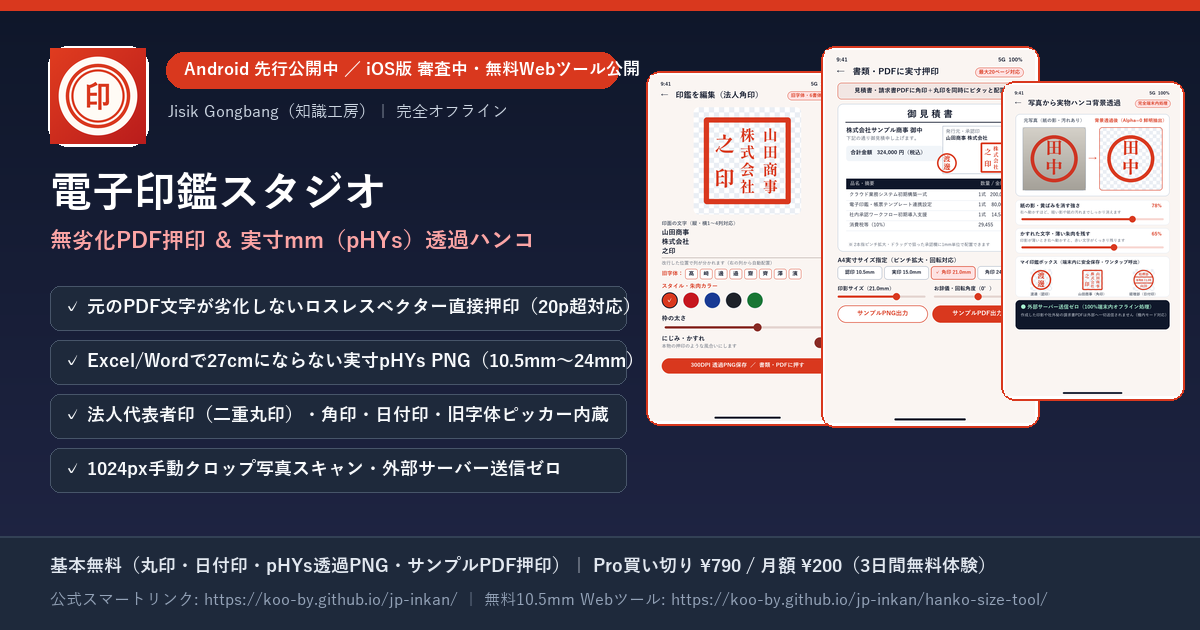
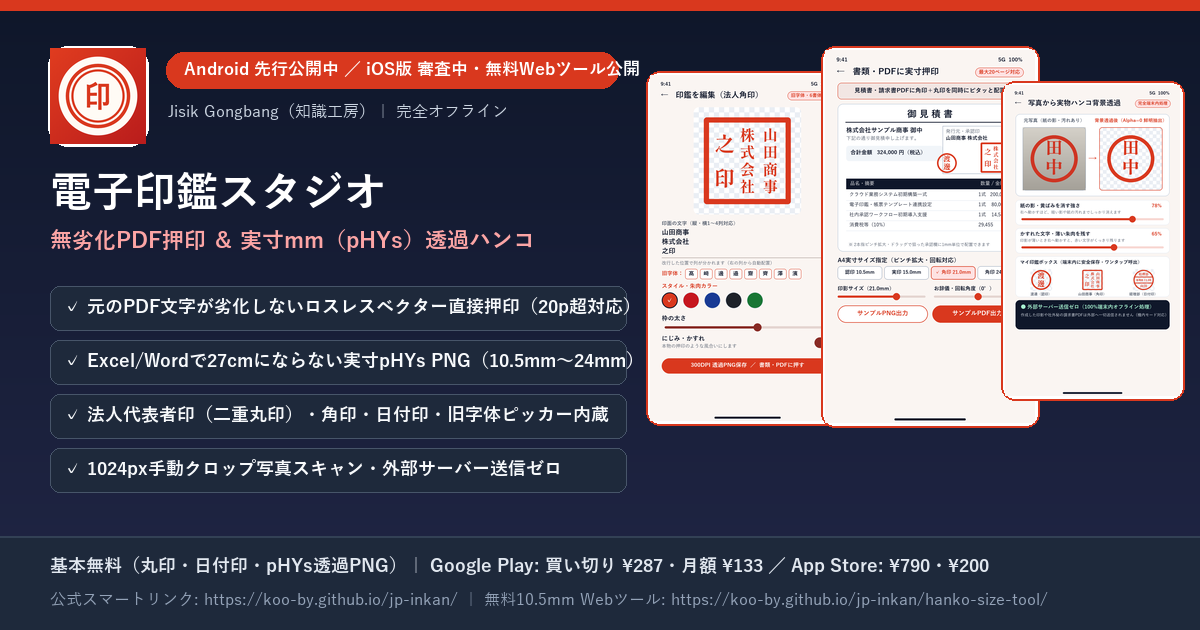
chore(jp-inkan): update Google Play pricing to ¥287 lifetime / ¥133 monthly alongside App Store ¥790 / ¥200
# Conflicts:
#	terms.html

Changed region(s): [[0.3392, 0.8746, 0.8325, 0.9349]]

diff --git a/terms.html b/terms.html
@@ -180,13 +180,13 @@
 
         <h2>第3条（有料プラン・無料トライアル・自動更新および解約条件）</h2>
         <ol>
-          <li>本アプリでは、無料機能に加え、すべての制限を解放する有料プランとして<strong>「買い切りプラン（永久Proライセンス）」</strong>および<strong>「月額プラン（定期購読サブスクリプション）」</strong>を提供しています。各プランの具体的な料金（消費税込み）はアプリ内の購入画面に表示されます（代表価格例：買い切りプラン ¥790、月額プラン ¥200/月）。</li>
+          <li>本アプリでは、無料機能に加え、すべての制限を解放する有料プランとして<strong>「買い切りプラン（永久Proライセンス）」</strong>および<strong>「月額プラン（定期購読サブスクリプション）」</strong>を提供しています。各プランの具体的な料金（消費税込み）はアプリ内の購入画面に表示されます（代表価格例：Google Play 買い切り ¥287・月額 ¥133/月 ／ App Store 買い切り ¥790・月額 ¥200/月）。</li>
           <li>決済はApple Inc.（App Store）またはGoogle LLC（Google Play）の公式アプリ内課金システムを通じて行われます。</li>
           <li><strong>買い切りプラン（Lifetime Pro）：</strong> 1回のお支払いにより、追加課金や自動更新なしで対象アプリのPro機能を永続的にご利用いただけます。</li>
           <li><strong>月額プラン（Monthly Pro）および無料トライアル（24時間前ルール）：</strong> 初回登録時に3日間の無料トライアルが提供される場合、トライアル期間終了の<strong>24時間前まで</strong>に解約手続きを完了しない限り、自動的に有料の月額プランへ移行し初回の月額料金が課金されます。以後も現在の購読期間が終了する<strong>24時間前まで</strong>に解約しない限り、同一条件で毎月自動更新されます。</li>
           <li><strong>定期購読の解約方法および終了24時間以内の解約について：</strong> 解約（自動更新の停止）手続き自体は、期間終了の24時間前を過ぎていても（例：終了20時間前など）、ユーザーの端末設定（iOS：「設定」＞「Apple Account」＞「サブスクリプション」、Android：「Google Play ストア」＞「お支払いと定期購入」＞「定期購入」）からいつでも行うことができます。ただし、期間終了まで24時間を切った時点で解約された場合は、Apple / Google決済システムの事前承認処理により今回分（1ヶ月分）のみ課金・更新され、翌月以降の自動更新が停止する場合があります。なお、<strong>本アプリを端末からアンインストール（削除）しただけでは定期購読は自動的に解約されません</strong>のでご注意ください。</li>
           <li><strong>解約後の保存データの保護および出力範囲：</strong> Pro利用中に「マイ印鑑ボックス」へ保存された印鑑データは、月額プラン解約後も削除されることなく端末内に永続的に保持されます。解約後の出力・保存には無料プランの範囲（個人丸印・小判印・日付印の鮮明モード出力および内蔵サンプル書類への押印出力）が適用され、Pro専用印鑑（法人角印・写真スキャン透過印影）、朱肉かすれ・二重枠加工、複数同時押印、およびお手持ちの外部PDF・写真書類への押印出力は、再購読または買い切りプランのご購入によりいつでも再度ご利用いただけます。</li>
-          <li><strong>月額プラン（無料トライアル中を含む）から買い切りプランへ移行する場合の注意事項：</strong> Apple（App Store）およびGoogle（Google Play）のOS決済仕様上、月額サブスクリプション利用中（3日間無料トライアル期間中を含む）に買い切りプラン（非消耗型アイテム・¥790）を購入しても、既存の月額サブスクリプションは自動的には解約されません。次回以降の月額料金の重複課金を防止するため、買い切りプラン購入後は必ずユーザーご自身で端末のストア設定画面から、更新日の<strong>24時間前まで</strong>に既存の月額プランの解約手続きを行ってください。</li>
+          <li><strong>月額プラン（無料トライアル中を含む）から買い切りプランへ移行する場合の注意事項：</strong> Apple（App Store）およびGoogle（Google Play）のOS決済仕様上、月額サブスクリプション利用中（3日間無料トライアル期間中を含む）に買い切りプラン（非消耗型アイテム：Google Play ¥287 ／ App Store ¥790）を購入しても、既存の月額サブスクリプションは自動的には解約されません。次回以降の月額料金の重複課金を防止するため、買い切りプラン購入後は必ずユーザーご自身で端末のストア設定画面から、更新日の<strong>24時間前まで</strong>に既存の月額プランの解約手続きを行ってください。</li>
         </ol>
 
         <h2>第4条（禁止事項）</h2>
@@ -202,7 +202,7 @@
         <ol>
           <li><strong>法的効力に関する免責：</strong> 本アプリで作成される電子印鑑（丸印・角印・日付データ印・写真透過印影等）および押印済みPDF書類は、日常業務および電子文書の効率化を支援するツールであり、日本の商業登記法・印鑑登録制度に基づく「実印（登録印）」としての公的証明力や、特定の行政手続・契約における法的有効性を当方が保証するものではありません。提出先・取引先の規定をご確認のうえ、ユーザーご自身の責任においてご利用ください。</li>
           <li><strong>端末内データのバックアップ：</strong> 本アプリのデータはユーザーの端末内にのみ保存されるため、端末の紛失・故障・OSアップデート・アプリの削除等によるデータの消失について、当方に故意または重過失がある場合を除き、復元の義務を負いません。重要な印影画像や押印済みPDFは適宜バックアップを行ってください。</li>
-          <li><strong>損害賠償責任の制限（消費者契約法第8条準拠）：</strong> 本アプリの利用または利用不能に関して当方が債務不履行責任または不法行為責任を負う場合、当方に故意または重過失があるときを除き（当方の軽過失による場合に限り）、当方が賠償する損害の範囲はユーザーに現実に生じた直接かつ通常の損害に限られ、その賠償額の上限は、損害発生の直近12ヶ月間に当該ユーザーが本アプリに関して当方へ実際に支払った対価の総額（無償利用中または無料トライアル期間中の場合は200円）とします。なお、当方の故意または重過失による損害については、法令の定めに従い賠償責任を負います。</li>
+          <li><strong>損害賠償責任の制限（消費者契約法第8条準拠）：</strong> 本アプリの利用または利用不能に関して当方が債務不履行責任または不法行為責任を負う場合、当方に故意または重過失があるときを除き（当方の軽過失による場合に限り）、当方が賠償する損害の範囲はユーザーに現実に生じた直接かつ通常の損害に限られ、その賠償額の上限は、損害発生の直近12ヶ月間に当該ユーザーが本アプリに関して当方へ実際に支払った対価の総額（無償利用中または無料トライアル期間中の場合は各ストアの月額相当額［Google Play 133円／App Store 200円］）とします。なお、当方の故意または重過失による損害については、法令の定めに従い賠償責任を負います。</li>
         </ol>
 
         <h2>第6条（規約の変更および準拠法・管轄）</h2>
@@ -231,13 +231,13 @@
 
         <h2>제3조 (유료 플랜·무료 체험·자동 갱신 및 해지 조건)</h2>
         <ol>
-          <li>본 앱은 무료 기능 외에 모든 제한을 해제하는 유료 플랜으로 <strong>「평생 소장 플랜(영구 Pro 라이선스)」</strong> 및 <strong>「월간 구독 플랜(정기결제 서브스크립션)」</strong>을 제공합니다. 각 플랜의 구체적인 금액(세금 포함)은 앱 내 결제 화면에 표시됩니다 (대표 가격 예시: 평생 소장 ¥790, 월간 구독 ¥200/월).</li>
+          <li>본 앱은 무료 기능 외에 모든 제한을 해제하는 유료 플랜으로 <strong>「평생 소장 플랜(영구 Pro 라이선스)」</strong> 및 <strong>「월간 구독 플랜(정기결제 서브스크립션)」</strong>을 제공합니다. 각 플랜의 구체적인 금액(세금 포함)은 앱 내 결제 화면에 표시됩니다 (대표 가격 예시: Google Play 평생 소장 ¥287 · 월간 구독 ¥133/월 / App Store 평생 소장 ¥790 · 월간 구독 ¥200/월).</li>
           <li>결제는 Apple Inc.(App Store) 또는 Google LLC(Google Play)의 공식 인앱 결제 시스템을 통해 이루어집니다.</li>
           <li><strong>평생 소장 플랜 (Lifetime Pro):</strong> 1회 결제로 추가 과금이나 자동 갱신 없이 대상 앱의 모든 Pro 기능을 영구적으로 이용할 수 있습니다.</li>
           <li><strong>월간 구독 플랜 (Monthly Pro) 및 무료 체험 (24시간 전 기준):</strong> 최초 가입 시 3일 무료 체험이 제공되는 경우, 무료 체험 종료 최소 <strong>24시간 전까지</strong> 구독 해지 절차를 완료하지 않으면 자동으로 유료 월간 구독으로 전환되어 첫 월간 요금이 결제됩니다. 이후에도 현재 구독 기간이 종료되기 최소 <strong>24시간 전까지</strong> 해지하지 않는 한 동일한 조건으로 매월 자동 갱신됩니다.</li>
           <li><strong>정기구독 해지 방법 및 만료 24시간 이내 해지 시 처리:</strong> 구독 해지(자동 갱신 중단) 신청 자체는 만료 24시간 이내(예: 만료 20시간 전 등)를 포함하여 사용자의 기기 설정(iOS: [설정] ＞ [Apple 계정] ＞ [구독], Android: [Google Play 스토어] ＞ [결제 및 정기 결제] ＞ [정기 결제])에서 시간 제약 없이 언제든지 직접 진행할 수 있습니다. 단, 만료까지 24시간이 남지 않은 시점에 해지할 경우 Apple / Google 결제 시스템의 사전 승인 절차에 따라 이번 회차(1개월분)까지는 결제·갱신되고 다음 달부터 자동 결제가 중단될 수 있습니다. 또한 <strong>앱을 기기에서 삭제(언인스톨)하는 것만으로는 정기구독이 자동 해지되지 않으므로 유의하시기 바랍니다.</strong></li>
           <li><strong>해지 후 저장 데이터 보호 및 출력 범위:</strong> Pro 이용 중 [내 도장 보관함]에 저장한 도장 데이터는 월간 구독 해지 후에도 삭제되지 않고 기기 내에 영구 보존됩니다. 해지 후 저장·내보내기 시에는 무료 플랜 범위(개인 원형·타원·날짜인의 선명 모드 출력 및 내장 기본 샘플 서류 날인 출력)가 적용되며, Pro 전용 도장(법인 사각직인·사진 스캔 투명 인영), 인주 번짐·이중 테두리 효과, 다중 동시 날인, 내 서류(외부 PDF·사진) 날인 출력 기능은 재구독 또는 평생 소장 플랜 구매 시 언제든 다시 활성화됩니다.</li>
-          <li><strong>월간 구독(3일 무료 체험 포함) 이용 중 평생 소장 플랜으로 전환할 때의 주의사항:</strong> Apple(App Store) 및 Google(Google Play)의 OS 결제 정책상, 월간 정기구독 이용 중(3일 무료 체험 기간 포함)에 평생 소장 플랜(비소모성 일회성 상품·¥790)을 구매하더라도 기존의 월간 정기구독은 자동으로 해지되지 않습니다. 다음 회차 월간 요금의 중복 청구를 방지하기 위해, 평생 소장 플랜 구매 후에는 반드시 사용자 본인이 기기의 스토어 설정 화면에서 갱신일 최소 <strong>24시간 전까지</strong> 기존 월간 구독을 직접 해지하셔야 합니다.</li>
+          <li><strong>월간 구독(3일 무료 체험 포함) 이용 중 평생 소장 플랜으로 전환할 때의 주의사항:</strong> Apple(App Store) 및 Google(Google Play)의 OS 결제 정책상, 월간 정기구독 이용 중(3일 무료 체험 기간 포함)에 평생 소장 플랜(비소모성 일회성 상품: Google Play ¥287 / App Store ¥790)을 구매하더라도 기존의 월간 정기구독은 자동으로 해지되지 않습니다. 다음 회차 월간 요금의 중복 청구를 방지하기 위해, 평생 소장 플랜 구매 후에는 반드시 사용자 본인이 기기의 스토어 설정 화면에서 갱신일 최소 <strong>24시간 전까지</strong> 기존 월간 구독을 직접 해지하셔야 합니다.</li>
         </ol>
 
         <h2>제4조 (금지사항)</h2>
@@ -253,7 +253,7 @@
         <ol>
           <li><strong>법적 효력에 관한 면책:</strong> 본 앱으로 제작되는 전자도장(원형인·사각인·날짜 데이터인·사진 배경 투명화 도장 등) 및 날인된 PDF 서류는 일상 실무 및 전자문서 작업 효율화를 지원하는 도구이며, 국가 인감증명 제도상의 「실인(인감증명서 발급 대상 인감)」으로서의 공적 증명력이나 특정 행정 절차·법적 분쟁에서의 법적 효력을 당사가 보증하는 것은 아닙니다. 제출처 및 거래처의 규정을 확인하신 후 사용자 본인의 책임하에 이용해 주시기 바랍니다.</li>
           <li><strong>기기 내 데이터 백업:</strong> 본 앱의 데이터는 사용자의 기기 내부에만 저장되므로, 기기 분실·고장·OS 업데이트·앱 삭제 등으로 인한 데이터 소실에 대해 당사에 고의 또는 중과실이 있는 경우를 제외하고 복구 의무를 지지 않습니다. 중요한 도장 이미지나 날인 완료 PDF는 수시로 별도 백업해 주시기 바랍니다.</li>
-          <li><strong>손해배상 책임의 제한 (일본 소비자계약법 제8조 준거):</strong> 본 앱의 이용 또는 이용 불능과 관련하여 당사가 채무불이행 또는 불법행위에 따른 손해배상 책임을 부담하는 경우, 당사에 고의 또는 중과실이 있는 경우를 제외하고(당사의 경과실로 인한 경우에 한하여), 당사의 배상 범위는 사용자에게 현실적으로 발생한 통상적이고 직접적인 손해에 한정되며, 그 배상 한도는 손해 발생 직전 최근 12개월간 해당 사용자가 본 앱과 관련하여 당사에 실제 지불한 유료 결제 금액 총액(무료 플랜 이용 중이거나 무료 체험 기간 중인 경우에는 200엔)을 상한으로 합니다. 단, 당사의 고의 또는 중과실로 인한 손해에 대해서는 관련 법령에 따라 책임을 부담합니다.</li>
+          <li><strong>손해배상 책임의 제한 (일본 소비자계약법 제8조 준거):</strong> 본 앱의 이용 또는 이용 불능과 관련하여 당사가 채무불이행 또는 불법행위에 따른 손해배상 책임을 부담하는 경우, 당사에 고의 또는 중과실이 있는 경우를 제외하고(당사의 경과실로 인한 경우에 한하여), 당사의 배상 범위는 사용자에게 현실적으로 발생한 통상적이고 직접적인 손해에 한정되며, 그 배상 한도는 손해 발생 직전 최근 12개월간 해당 사용자가 본 앱과 관련하여 당사에 실제 지불한 유료 결제 금액 총액(무료 플랜 이용 중이거나 무료 체험 기간 중인 경우에는 각 스토어의 월간 구독 상당액[Google Play 133엔 / App Store 200엔])을 상한으로 합니다. 단, 당사의 고의 또는 중과실로 인한 손해에 대해서는 관련 법령에 따라 책임을 부담합니다.</li>
         </ol>
 
         <h2>제6조 (약관의 변경 및 준거법·관할)</h2>

diff --git a/tokushoho.html b/tokushoho.html
@@ -134,7 +134,7 @@
   <main>
     <div class="topbar">
       <div class="nav">
-        <a data-internal="true" data-base="./index.html" href="./index.html?v=20261030_v5">
+        <a data-internal="true" data-base="./index.html" href="./index.html?v=20261123_v6">
           <span data-lang="ja">← 公式サポート・法務ポータルへ戻る</span>
           <span data-lang="ko">← 공식 고객지원·법무 포털로 돌아가기</span>
         </a>
@@ -180,8 +180,8 @@
               <td>
                 各アプリケーション内の購入画面（App Store / Google Play 決済画面）に表示される価格（消費税込み）に準じます。<br>
                 <strong>【代表プラン価格（『電子印鑑スタジオ - 透過ハンコ作成＆PDF押印』の場合）】</strong><br>
-                ・買い切りプラン（永久Proライセンス）：<strong>¥790（税込・1回払い）</strong><br>
-                ・月額プラン（Monthly Pro）：<strong>¥200 / 月（税込・初回3日間無料トライアル付き）</strong><br>
+                ・<strong>Google Play（Android）：</strong> 買い切りプラン（永久Proライセンス）<strong>¥287（税込・1回払い）</strong> ／ 月額プラン（Monthly Pro）<strong>¥133 / 月（税込・初回3日間無料トライアル付き）</strong><br>
+                ・<strong>App Store（iOS / iPadOS）：</strong> 買い切りプラン（永久Proライセンス）<strong>¥790（税込・1回払い）</strong> ／ 月額プラン（Monthly Pro）<strong>¥200 / 月（税込・初回3日間無料トライアル付き）</strong><br>
                 <span style="font-size:13.5px;">※為替レートやストア価格改定により変動する場合は、決済確認画面に表示される金額が優先されます。</span>
               </td>
             </tr>
@@ -207,7 +207,7 @@
                 ・<strong>返品・返金：</strong> デジタルコンテンツおよびアプリ内課金の性質上、購入確定後の返品・返金・キャンセルには原則として応じられません（法令に定める瑕疵がある場合、または各アプリストアの返金ポリシーにより承認された場合を除きます）。<br>
                 ・<strong>買い切りプラン：</strong> 1回のお支払いのみで完了し、以後の自動課金や解約手続きは一切発生しません。<br>
                 ・<strong>定期購読（月額サブスクリプション）の解約：</strong> 解約（自動更新の停止）手続き自体は、端末の「設定（Apple ID サブスクリプション / Google Play 定期購入管理）」から24時間いつでも行うことができます。ただし、次回分（または無料トライアル終了直後）の課金を発生させないためには、期間終了の<strong>24時間前まで</strong>に解約手続きを完了してください（終了24時間以内に解約された場合は、ストアの事前決済処理により今回分まで更新され、翌月以降の自動課金が停止します）。期間途中の解約による日割り返金は行われませんが、当該購読期間の満了日までは引き続きすべてのPro機能をご利用いただけます。<br>
-                ・<strong>月額プラン（無料トライアル中を含む）から買い切りプランへ移行する場合の重要なお知らせ：</strong> Apple（App Store）およびGoogle（Google Play）のOS決済仕様上、買い切りプラン（非消耗型アイテム・¥790）を追加購入しても、現在ご契約中の月額サブスクリプション（3日間無料トライアルを含む）は自動的に解約されません。次回以降の月額料金の重複課金を防ぐため、買い切りプラン購入後は必ずお客様ご自身で端末のストア設定（「サブスクリプション／定期購入」管理画面）より、期間終了の<strong>24時間前まで</strong>に月額プランの解約手続きを行ってください。
+                ・<strong>月額プラン（無料トライアル中を含む）から買い切りプランへ移行する場合の重要なお知らせ：</strong> Apple（App Store）およびGoogle（Google Play）のOS決済仕様上、買い切りプラン（非消耗型アイテム：Google Play ¥287 ／ App Store ¥790）を追加購入しても、現在ご契約中の月額サブスクリプション（3日間無料トライアルを含む）は自動的に解約されません。次回以降の月額料金の重複課金を防ぐため、買い切りプラン購入後は必ずお客様ご自身で端末のストア設定（「サブスクリプション／定期購入」管理画面）より、期間終了の<strong>24時間前まで</strong>に月額プランの解約手続きを行ってください。
               </td>
             </tr>
             <tr>
@@ -250,8 +250,8 @@
               <td>
                 각 애플리케이션 내 구매 화면(App Store / Google Play 결제창)에 표시되는 가격(소비세 포함)을 따릅니다.<br>
                 <strong>【대표 플랜 가격 (『전자도장 스튜디오 - 투명 도장 제작 &amp; PDF 날인 (電子印鑑スタジオ)』 기준)】</strong><br>
-                ・평생 소장 플랜 (영구 Pro 라이선스): <strong>¥790 (세금 포함 · 1회 결제)</strong><br>
-                ・월간 구독 플랜 (Monthly Pro): <strong>¥200 / 월 (세금 포함 · 최초 3일 무료 체험 포함)</strong><br>
+                ・<strong>Google Play (Android):</strong> 평생 소장 플랜 (영구 Pro 라이선스) <strong>¥287 (세금 포함 · 1회 결제)</strong> / 월간 구독 플랜 (Monthly Pro) <strong>¥133 / 월 (세금 포함 · 최초 3일 무료 체험 포함)</strong><br>
+                ・<strong>App Store (iOS / iPadOS):</strong> 평생 소장 플랜 (영구 Pro 라이선스) <strong>¥790 (세금 포함 · 1회 결제)</strong> / 월간 구독 플랜 (Monthly Pro) <strong>¥200 / 월 (세금 포함 · 최초 3일 무료 체험 포함)</strong><br>
                 <span style="font-size:13.5px;">※환율 변동이나 스토어 가격 정책에 따라 변동될 경우 실제 결제 확인 화면에 표시되는 금액이 우선 적용됩니다.</span>
               </td>
             </tr>
@@ -277,7 +277,7 @@
                 ・<strong>반품·환불:</strong> 디지털 콘텐츠 및 인앱 결제의 특성상 결제 확정 후 반품·환불·취소는 원칙적으로 불가합니다 (단, 법령상 하자가 있거나 각 앱 스토어의 환불 정책에 따라 승인된 경우는 제외).<br>
                 ・<strong>평생 소장 플랜:</strong> 1회 결제로 완료되며 이후 추가 자동 과금이나 해지 절차는 발생하지 않습니다.<br>
                 ・<strong>정기구독(월간 플랜) 해지:</strong> 구독 해지(자동 갱신 중단) 신청 자체는 기기의 [설정 (Apple ID 구독 관리 / Google Play 정기 결제 관리)]에서 시간 제약 없이 언제든지 진행할 수 있습니다. 단, 다음 회차(또는 무료 체험 종료 직후) 요금이 청구되지 않게 하려면 반드시 기간 종료 최소 <strong>24시간 전까지</strong> 해지를 완료해야 합니다(종료 24시간 이내에 해지할 경우 스토어 사전 결제 승인에 따라 이번 회차까지 갱신된 후 다음 달부터 자동 결제가 중단됨). 이용 기간 중도 해지에 따른 일할 환불은 이루어지지 않으나, 해당 구독 기간 만료일까지는 계속해서 모든 Pro 기능을 이용하실 수 있습니다.<br>
-                ・<strong>월간 구독(3일 무료 체험 포함) 이용 중 평생 소장 플랜으로 전환할 때의 중요 안내:</strong> Apple(App Store) 및 Google(Google Play)의 OS 결제 정책상, 평생 소장 플랜(비소모성 일회성 상품·¥790)을 구매하더라도 기존에 가입된 월간 정기구독(3일 무료 체험 포함)은 자동으로 해지되지 않습니다. 다음 회차 월간 요금이 중복 청구되는 것을 방지하려면, 평생 소장 플랜 구매 후 반드시 사용자 본인이 기기의 스토어 설정([구독 / 정기 결제] 관리 화면)에서 기간 종료 최소 <strong>24시간 전까지</strong> 기존 월간 구독을 직접 해지하셔야 합니다.
+                ・<strong>월간 구독(3일 무료 체험 포함) 이용 중 평생 소장 플랜으로 전환할 때의 중요 안내:</strong> Apple(App Store) 및 Google(Google Play)의 OS 결제 정책상, 평생 소장 플랜(비소모성 일회성 상품: Google Play ¥287 / App Store ¥790)을 구매하더라도 기존에 가입된 월간 정기구독(3일 무료 체험 포함)은 자동으로 해지되지 않습니다. 다음 회차 월간 요금이 중복 청구되는 것을 방지하려면, 평생 소장 플랜 구매 후 반드시 사용자 본인이 기기의 스토어 설정([구독 / 정기 결제] 관리 화면)에서 기간 종료 최소 <strong>24시간 전까지</strong> 기존 월간 구독을 직접 해지하셔야 합니다.
               </td>
             </tr>
             <tr>
@@ -292,8 +292,8 @@
       </div>
 
       <div class="meta-footer">
-        <span data-lang="ja">制定日：2026年10月17日 ｜ 最終改定日：2026年10月30日</span>
-        <span data-lang="ko">제정일: 2026년 10월 17일 ｜ 최종 개정일: 2026년 10월 30일</span>
+        <span data-lang="ja">制定日：2026年10月17日 ｜ 最終改定日：2026年11月23日</span>
+        <span data-lang="ko">제정일: 2026년 10월 17일 ｜ 최종 개정일: 2026년 11월 23일</span>
       </div>
     </div>
   </main>
@@ -314,7 +314,7 @@
       for (var i = 0; i < links.length; i++) {
         var baseHref = links[i].getAttribute('data-base');
         if (baseHref) {
-          links[i].setAttribute('href', baseHref + '?v=20261030_v5' + (isKo ? '&lang=ko' : ''));
+          links[i].setAttribute('href', baseHref + '?v=20261123_v6' + (isKo ? '&lang=ko' : ''));
         }
       }
       try { localStorage.setItem('jg_legal_lang', isKo ? 'ko' : 'ja'); } catch (e) {}

diff --git a/index.html b/index.html
@@ -217,7 +217,7 @@
           <li><strong>iOS（iPhone / iPad）：</strong>「設定」アプリ ＞「Apple Account（自分の名前）」＞「サブスクリプション」から対象アプリを選択して解約</li>
           <li><strong>Android：</strong>「Google Play ストア」アプリ ＞ 右上のプロフィールアイコン ＞「お支払いと定期購入」＞「定期購入」から対象アプリを選択して解約</li>
         </ul>
-        <h3>Q3. 月額プラン（または3日間無料トライアル）の利用中に「買い切りプラン（¥790）」を購入した場合、月額プランは自動解約されますか？</h3>
+        <h3>Q3. 月額プラン（または3日間無料トライアル）の利用中に「買い切りプラン（Google Play ¥287 ／ App Store ¥790）」を購入した場合、月額プランは自動解約されますか？</h3>
         <p><strong>いいえ、自動的には解約されません。</strong> Apple（App Store）およびGoogle（Google Play）のOS決済仕様上、非消耗型の買い切りアイテムを購入しても既存の定期購読は自動的に停止しないため、買い切りプランへの移行後は必ず上記Q2の手順で端末のストア設定から既存の月額プランを解約してください。</p>
       </div>
       <div data-lang="ko">
@@ -231,7 +231,7 @@
           <li><strong>iOS (iPhone / iPad):</strong> 기기 [설정] ＞ [Apple 계정(본인 이름)] ＞ [구독]에서 대상 앱 선택 후 구독 취소</li>
           <li><strong>Android:</strong> [Google Play 스토어] ＞ 우측 상단 프로필 ＞ [결제 및 정기 결제] ＞ [정기 결제]에서 대상 앱 선택 후 구독 취소</li>
         </ul>
-        <h3>Q3. 월간 구독(또는 3일 무료 체험) 이용 중 「평생 소장 플랜(¥790)」을 구매하면 기존 월간 구독은 자동 해지되나요?</h3>
+        <h3>Q3. 월간 구독(또는 3일 무료 체험) 이용 중 「평생 소장 플랜(Google Play ¥287 / App Store ¥790)」을 구매하면 기존 월간 구독은 자동 해지되나요?</h3>
         <p><strong>아니요, 자동 해지되지 않습니다.</strong> Apple(App Store) 및 Google(Google Play)의 OS 결제 정책상 일회성 비소모품 상품을 구매하더라도 기존의 정기구독은 자동 중단되지 않으므로, 평생 소장 플랜 구매 후에는 반드시 위 Q2 안내에 따라 스토어 구독 관리 화면에서 기존 월간 구독을 직접 해지해 주셔야 합니다.</p>
       </div>
     </div>
@@ -256,8 +256,8 @@
         <strong>접수 및 회신 시간:</strong> 이메일 24시간 상시 접수 (원칙적으로 2영업일 이내에 회신드립니다)
       </div>
       <div class="meta-footer">
-        <span data-lang="ja">制定日：2026年10月17日 ｜ 最終改定日：2026年11月22日</span>
-        <span data-lang="ko">제정일: 2026년 10월 17일 ｜ 최종 개정일: 2026년 11월 22일</span>
+        <span data-lang="ja">制定日：2026年10月17日 ｜ 最終改定日：2026年11月23日</span>
+        <span data-lang="ko">제정일: 2026년 10월 17일 ｜ 최종 개정일: 2026년 11월 23일</span>
       </div>
     </div>
   </main>

diff --git a/jp-inkan/index.html b/jp-inkan/index.html
@@ -36,8 +36,15 @@
       },
       {
         "@type": "Offer",
-        "price": "790",
-        "priceCurrency": "JPY"
+        "price": "287",
+        "priceCurrency": "JPY",
+        "description": "Google Play（Android）Pro買い切りプラン"
+      },
+      {
+        "@type": "Offer",
+        "price": "133",
+        "priceCurrency": "JPY",
+        "description": "Google Play（Android）Pro月額プラン"
       }
     ],
     "publisher": {
